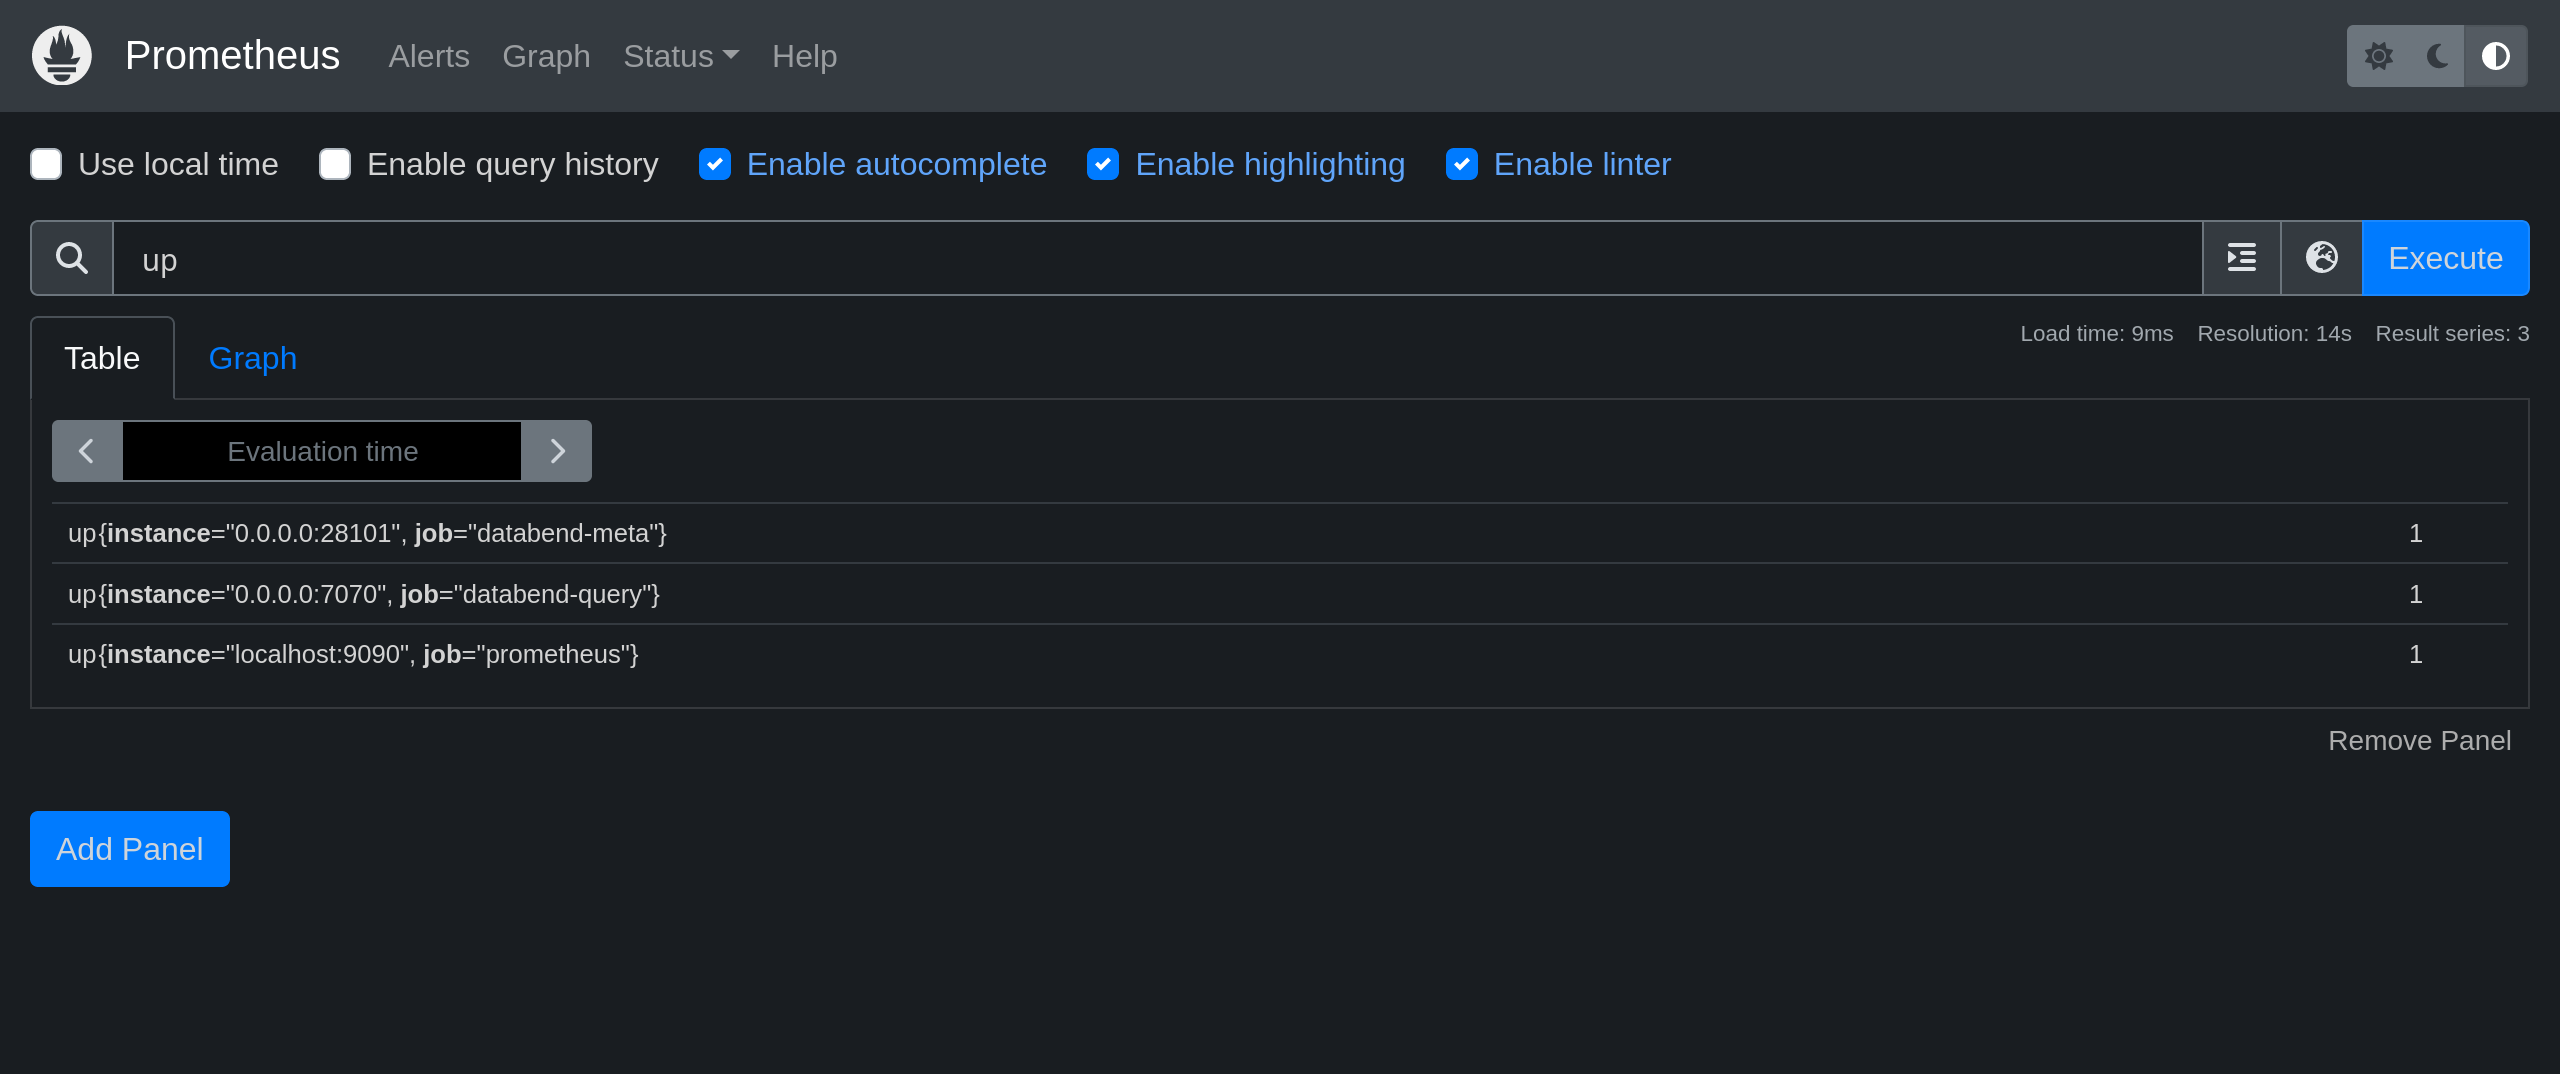
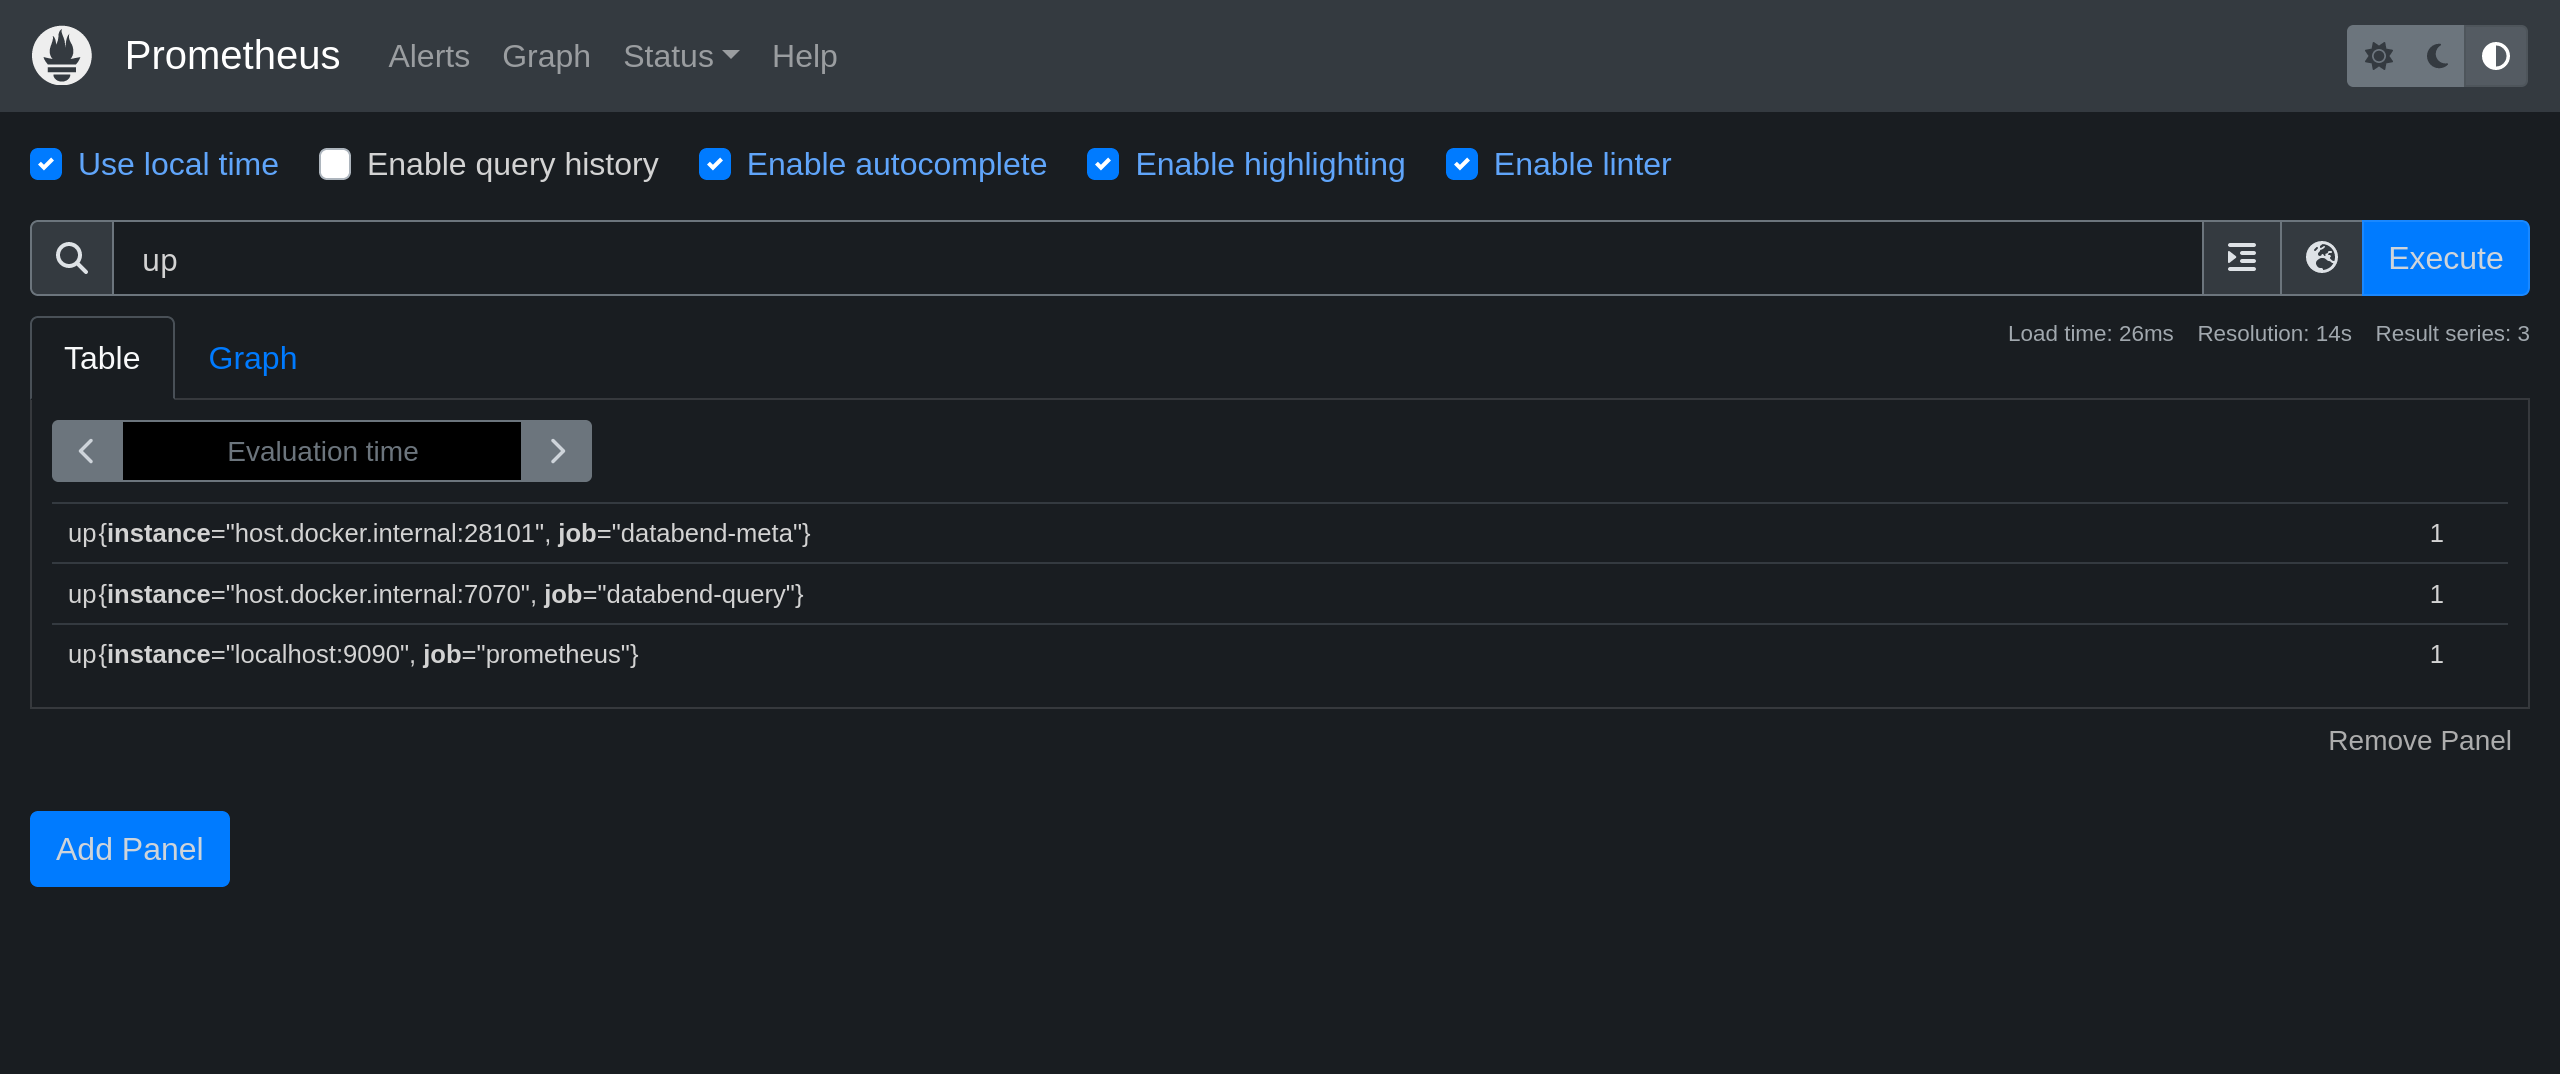
docs(monitor): update with eric's comments

Changed region(s): [[0.0938, 0.4916, 0.3125, 0.5838], [0.0, 0.1229, 0.0938, 0.1844], [0.7812, 0.3073, 0.8438, 0.338]]

diff --git a/docs/doc/13-monitor/prometheus-and-granafa.md b/docs/doc/13-monitor/prometheus-and-granafa.md
@@ -2,109 +2,112 @@
 title: Prometheus & Grafana
 ---
 
-[Prometheus](https://prometheus.io/) is a time series database that features a flexible query language and a multi-dimensional data model.
+Databend captures real-time metrics of the meta and query services, which you can access through a web browser using the following URLs:
 
-[Grafana](https://grafana.com/grafana) is an open-source tool used for analyzing and visualizing metrics.
+- Meta Metrics: `http://<admin_api_address>/v1/metrics`
+- Query Metrics: `http://<metric_api_address>/metrics`
 
-Databend supports using Prometheus to store monitoring and performance metrics, which can be visualized through Grafana.
+Alternatively, you can use Prometheus to capture and store the metrics data from Databend. Then, you can visualize the captured time series data on a dashboard with Grafana.
+
+[Prometheus](https://prometheus.io/) is an open-source monitoring system with a dimensional data model, flexible query language, efficient time series database and modern alerting approach. [Grafana](https://grafana.com/grafana) is an open-source tool used for analyzing and visualizing metrics.
+
+This following tutorial guides you through deploying and integrating Databend, Prometheus, and Grafana. In this tutorial, you'll deploy a local Databend and install Prometheus and Grafana with Docker. Before you start, ensure that you have Docker installed.
 
 ## Tutorial: Monitor Databend with Prometheus & Grafana
 
 ### Step 1. Deploy Databend
 
-Follow the [Deployment Guide](https://databend.rs/doc/deploy) to deploy Databend.
+Follow the [Deployment Guide](https://databend.rs/doc/deploy) to deploy a standalone Databend.
 
-In this example, we use the default configuration located in the `configs` directory of release to deploy a standalone  Databend. You can also find these configurations at [datafuselabs/databend - configs](https://github.com/datafuselabs/databend/tree/main/scripts/distribution/configs).
-
-Therefore, the metrics API for databend-meta is `0.0.0.0:28101/v1/metrics`, while the metrics API for databend-query is `0.0.0.0:7070/metrics`.
+:::tip
+This tutorial uses the [default configuration files](https://github.com/datafuselabs/databend/tree/main/scripts/distribution/configs) in the `configs` folder of the install package. The metrics API for databend-meta is `0.0.0.0:28101/v1/metrics`, and the metrics API for databend-query is `0.0.0.0:7070/metrics`.
+:::
 
 ### Step 2. Deploy Prometheus
 
-Please refer [Prometheus Installation](https://prometheus.io/docs/prometheus/latest/installation/). For convenience, Docker images are used in this tutorial.
+The steps below describe how to install and deploy Prometheus using Docker.
 
-1. Pull Prometheus' Docker Image
+1. Pull the latest Docker image of Prometheus from the Docker Hub registry.
 
-    ```bash
-    docker pull prom/prometheus
-    ```
+   ```bash
+   docker pull prom/prometheus
+   ```
 
-2. Edit Prometheus' configuration
+2. Edit the configuration file **prometheus.yml**.
 
-    We use [prometheus/prometheus - prometheus.yml](https://github.com/prometheus/prometheus/blob/main/documentation/examples/prometheus.yml) as the base configuration and add the necessary configurations for scraping Databend's metrics.
+   Add the following script to the end of the file prometheus.yml that can be found in the `/etc/prometheus/prometheus.yml` directory. Please note that, with Docker, there are multiple ways to modify a file for a container. In this tutorial, we demonstrate how to achieve this by saving the file to a local folder and mapping it when running the Prometheus image.
 
-    ```yaml
-      - job_name: "databend-query"
+   :::tip
+   Docker containers can connect to local services running on the host by using `host.docker.internal`. This feature is available by default only on Docker for Windows/Mac. However, it is also available on Linux starting from version **20.03**.
+   :::
 
-        # metrics_path defaults to '/metrics'
-        # scheme defaults to 'http'.
+   ```yaml
+   - job_name: "databend-query"
 
-        static_configs:
-          - targets: ["0.0.0.0:7070"]
+     # metrics_path defaults to '/metrics'
+     # scheme defaults to 'http'.
 
-      - job_name: "databend-meta"
+     static_configs:
+       - targets: ["host.docker.internal:7070"]
 
-        metrics_path: '/v1/metrics'
-        # scheme defaults to 'http'.
+   - job_name: "databend-meta"
 
-        static_configs:
-          - targets: ["0.0.0.0:28101"]
-    ```
+     metrics_path: "/v1/metrics"
+     # scheme defaults to 'http'.
 
-3. Deploy Prometheus
+     static_configs:
+       - targets: ["host.docker.internal:28101"]
+   ```
 
-    For convenience, the host machine network is used here. Please modify it according to actual situation.
+3. Deploy Prometheus.
 
-    ```bash
-    docker run \
-    --network host \
-    -v /path/to/prometheus.yml:/etc/prometheus/prometheus.yml \
-    prom/prometheus
-    ```
+   If you saved and edited the file `prometheus.yml` in a local folder, you need to create a mapping using the `-v` option in the command. To do so, replace `/path/to/prometheus.yml` in the command below with the path to your local `prometheus.yml`.
+
+   ```bash
+   docker run \
+   -p 9090:9090 \
+   --add-host=host.docker.internal:host-gateway \
+   -v /path/to/prometheus.yml:/etc/prometheus/prometheus.yml \
+   prom/prometheus
+   ```
 
 4. Check Metrics Status
 
-    Execute `up` in Prometheus UI (default `http://0.0.0.0:9090`). `1` represents normal, `0` represents abnormal.
+   Check the value on the right of each instance. `1` means the instance is healthy, and `0` means that the scrape failed.
 
-    ![Prometheus up](../../public/img/tracing/prometheus-up.png)
+   ![Prometheus up](../../public/img/tracing/prometheus-up.png)
 
 ### Step 3. Deploy Grafana
 
-Please refer [Grafana Installation](https://grafana.com/docs/grafana/latest/setup-grafana/installation/). For convenience, Docker images are used in this tutorial.
+Check the value on the right of each instance. 1 means the instance is healthy, and 0 means that the scrape failed.
 
-1. Pull Grafana's Docker Image
+1. Pull the latest Docker image of Grafana from the Docker Hub registry.
 
-    ```bash
-    docker pull grafana/grafana
-    ```
+   ```bash
+   docker pull grafana/grafana
+   ```
 
-2. Deploy Grafana
+2. Deploy Grafana.
 
-    For convenience, the host machine network is used here. Please modify it according to actual situation.
+   ```bash
+   docker run \
+   -p 3000:3000 \
+   --add-host=host.docker.internal:host-gateway \
+   grafana/grafana
+   ```
 
-    ```bash
-    docker run \
-    --network host \
-    grafana/grafana
-    ```
+3. Add a data source of Prometheus type.
 
-3. Add DataSource
+   Open your web browser and go to http://0.0.0.0:3000. Log in with the user name `admin` and password `admin` first, and then add a data source of Prometheus type on **Configuration** > **Data Sources** > **Add data source**.
 
-    Access Grafana's web page (default `http://0.0.0.0:3000`), the username and default password are both `admin`.
+   Please note that set the URL to `http://host.docker.internal:9090` for the data source.
 
-    We need to add a `Prometheus` type data source by selecting `Configuration → Data Sources → Add data source`.
+   ![Grafana data source](../../public/img/tracing/grafana-datasource.png)
 
-    ![Grafana data source](../../public/img/tracing/grafana-datasource.png)
+4. Create dashboards.
 
-4. Configure Grafana Dashboard
+   Databend recommend import the files in [datafuselabs/helm-charts - dashboards](https://github.com/datafuselabs/helm-charts/tree/main/dashboards) to create your dashboards. To do so, download the files first, then go to `http://0.0.0.0:3000/dashboard/import` to import the downloaded files one by one and select the `Prometheus` data source for each dashboard.
 
-    We recommend using the JSON files in [datafuselabs/helm-charts - dashboards](https://github.com/datafuselabs/helm-charts/tree/main/dashboards) to configure the Grafana dashboard, or customize it according to your own needs.
+   ![Grafana import query json](../../public/img/tracing/grafana-query-json.png)
 
-    Please visit `http://0.0.0.0:3000/dashboard/import` and upload the corresponding JSON file. Then, select the `Prometheus` data source.
-
-    ![Grafana import query json](../../public/img/tracing/grafana-query-json.png)
-
-5. View Grafana Dashboard
-
-    Based on the `UID`, we can access the corresponding dashboard. In this example, the address we want to access is: `http://0.0.0.0:3000/d/cxu72qHVa/`.
-
-    ![Grafana query dashboard](../../public/img/tracing/grafana-query-dashboard.png)
+   ![Grafana query dashboard](../../public/img/tracing/grafana-query-dashboard.png)
